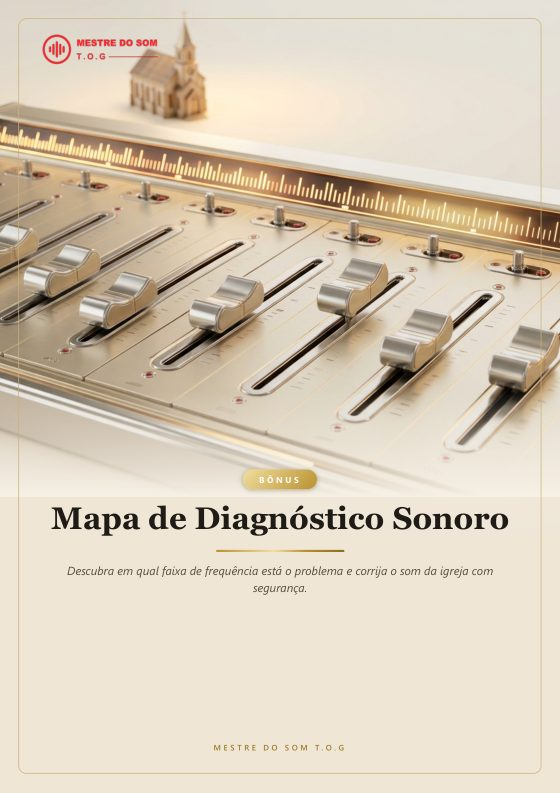
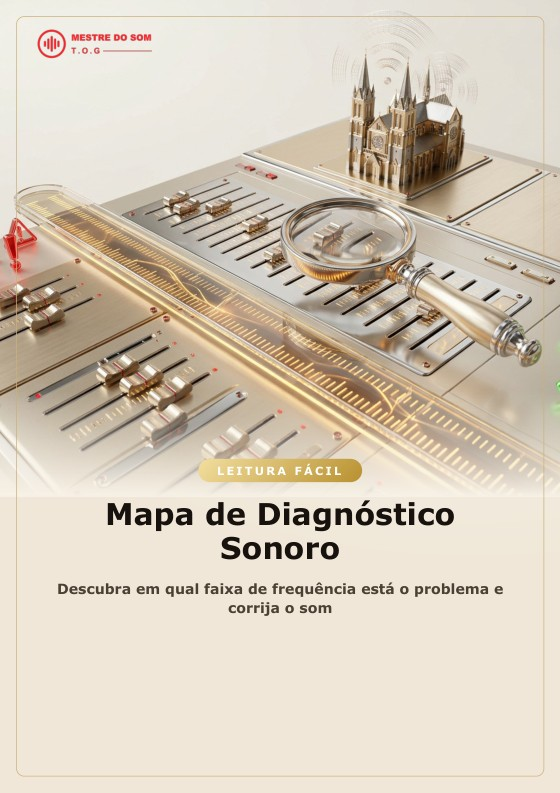
Pacote da pagina de vendas (gerado por sincronizar-repositorio.js)

diff --git a/privacidade.html b/privacidade.html
@@ -28,7 +28,7 @@ h2{font-size:1.15rem;margin:1.6em 0 .3em}
 <div class="box"><b>Resumo.</b> Esta página não tem cadastro, login nem formulário: ela não pede seu nome, e-mail nem telefone. A compra é feita na Hotmart, que trata os dados de pagamento. Quando o Pixel da Meta estiver ligado, ele só funciona se você aceitar o aviso de cookies, e serve para medir visitas e cliques e melhorar nossos anúncios.</div>
 
 <h2>1. Quem somos</h2>
-<p>Mestre do Som T.O.G, responsável por esta página e pelos guias de som para igrejas. Contato para assuntos de privacidade: <mark data-pendente>{{CONTATO}}</mark>.</p>
+<p>Mestre do Som T.O.G, responsável por esta página e pelos guias de som para igrejas. Contato comercial para assuntos de privacidade e pedidos dos titulares dos dados: <mark data-pendente>{{CONTATO}}</mark>.</p>
 
 <h2>2. O que esta página coleta</h2>
 <p>A página em si não grava dados pessoais. Como em qualquer site, o servidor que a entrega pode registrar dados técnicos de acesso (endereço de IP, tipo de navegador, data e hora).</p>
